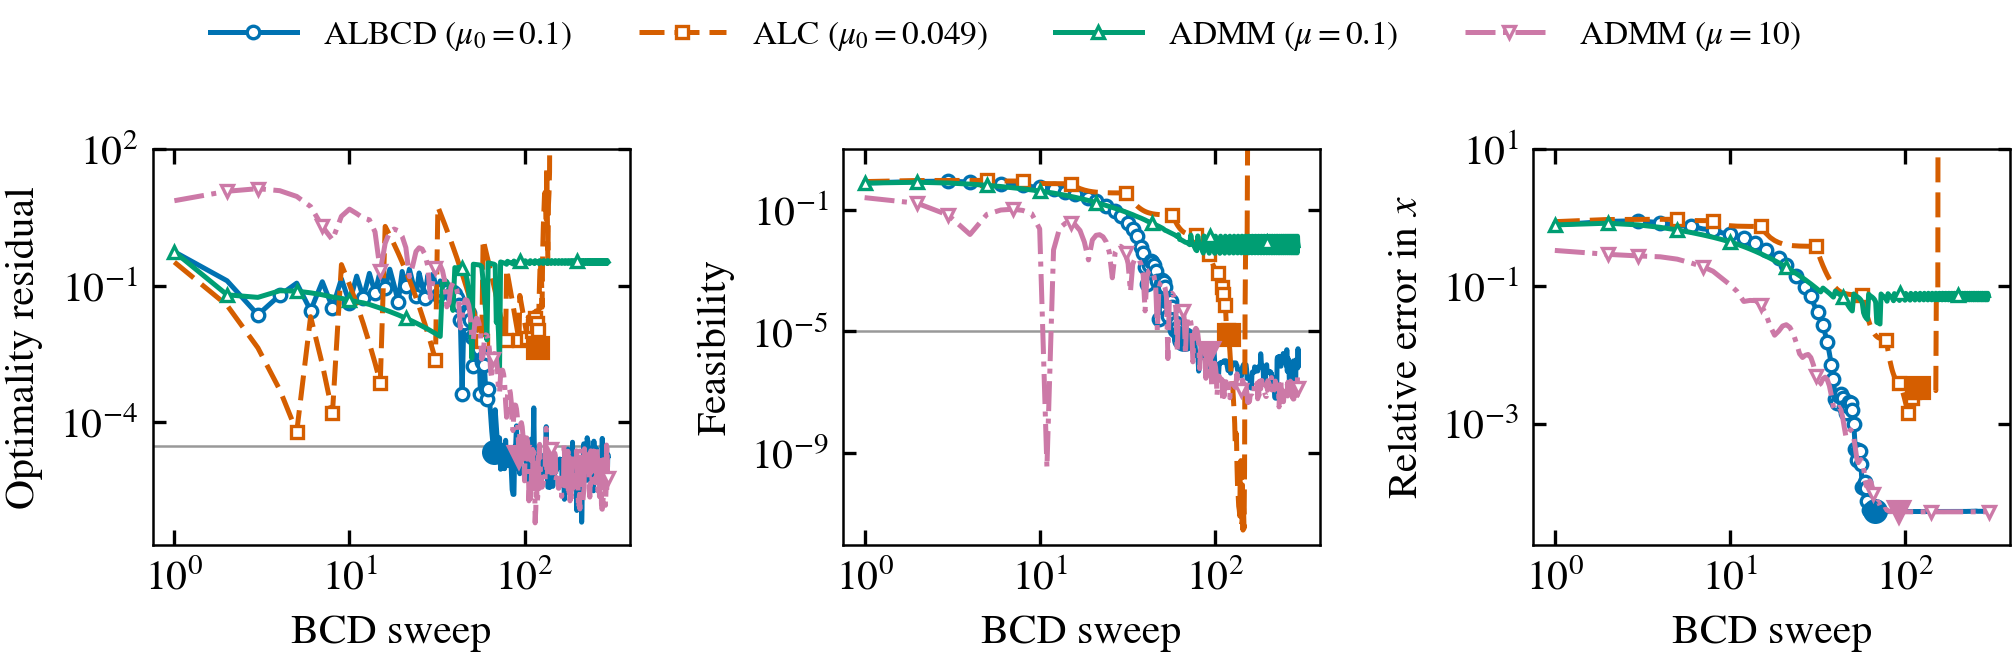
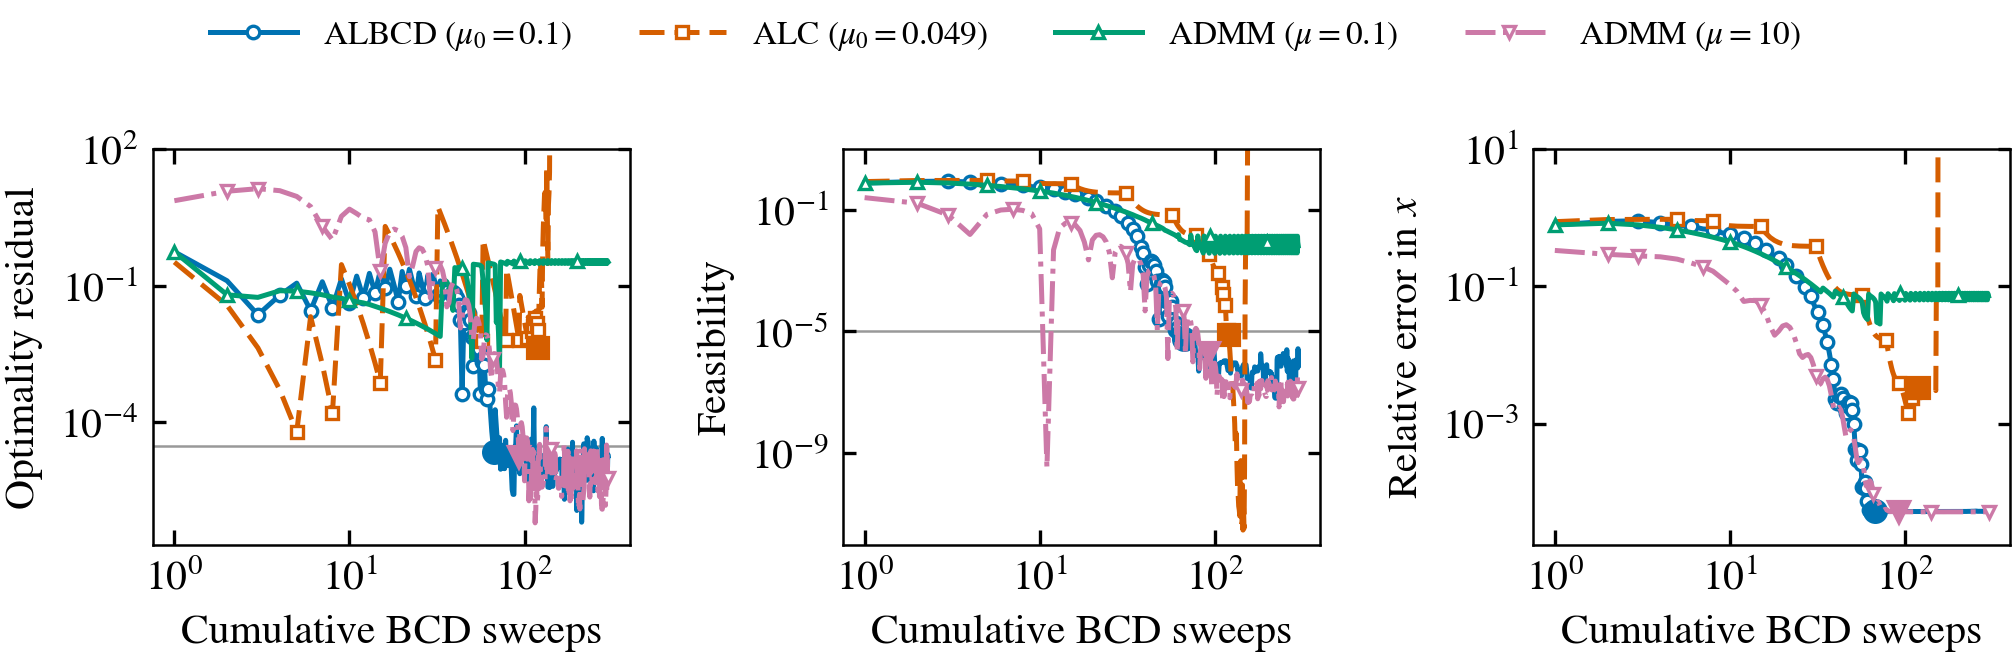
Update axis labels in figures to reflect cumulative BCD sweeps

Changed region(s): [[0.7812, 0.9119, 1.0, 1.0], [0.4375, 0.9119, 0.6562, 1.0], [0.0938, 0.9119, 0.3125, 1.0]]

diff --git a/examples/jax/cessna/fig_mu0_sweep.py b/examples/jax/cessna/fig_mu0_sweep.py
@@ -33,7 +33,7 @@ for a, label in ((opt, "Optimality residual"), (feas, "Feasibility"), (err, "Rel
     a.xaxis.set_minor_locator(NullLocator())
     a.yaxis.set_minor_locator(NullLocator())
     a.set_ylabel(label)
-    a.set_xlabel("Iteration")
+    a.set_xlabel("Cumulative BCD sweeps")
 
 fig.legend(*opt.get_legend_handles_labels(), loc="lower center", bbox_to_anchor=(0.5, 1.0), ncol=6,
            handlelength=2.6, frameon=False)

diff --git a/examples/jax/cessna/fig_prox_sweep.py b/examples/jax/cessna/fig_prox_sweep.py
@@ -40,7 +40,7 @@ for a, label in ((opt, "Optimality residual"), (feas, "Feasibility"), (err, "Rel
     a.xaxis.set_minor_locator(NullLocator())
     a.yaxis.set_minor_locator(NullLocator())
     a.set_ylabel(label)
-    a.set_xlabel("Iteration")
+    a.set_xlabel("Cumulative BCD sweeps")
 
 fig.legend(*opt.get_legend_handles_labels(), loc="lower center", bbox_to_anchor=(0.5, 1.0), ncol=5,
            handlelength=2.6, frameon=False)

diff --git a/examples/jax/cessna/fig_rho_sweep.py b/examples/jax/cessna/fig_rho_sweep.py
@@ -33,7 +33,7 @@ for a, label in ((opt, "Optimality residual"), (feas, "Feasibility"), (err, "Rel
     a.xaxis.set_minor_locator(NullLocator())
     a.yaxis.set_minor_locator(NullLocator())
     a.set_ylabel(label)
-    a.set_xlabel("Iteration")
+    a.set_xlabel("Cumulative BCD sweeps")
 
 fig.legend(*opt.get_legend_handles_labels(), loc="lower center", bbox_to_anchor=(0.5, 1.0), ncol=6,
            handlelength=2.6, frameon=False)

diff --git a/examples/comp/fig_cessna_comparison_tight.py b/examples/comp/fig_cessna_comparison_tight.py
@@ -62,7 +62,7 @@ for a, label, tol, top in ((opt, "Optimality residual", OPT_TOL, 1e2), (feas, "F
     if tol:
         a.axhline(tol, color="0.6", lw=0.6, zorder=0)
     a.set_ylabel(label)
-    a.set_xlabel("BCD sweep")
+    a.set_xlabel("Cumulative BCD sweeps")
 
 fig.legend(*opt.get_legend_handles_labels(), loc="lower center", bbox_to_anchor=(0.5, 1.0), ncol=4,
            handlelength=2.6, frameon=False)

diff --git a/examples/jax/airliner_fleet/fig_convergence.py b/examples/jax/airliner_fleet/fig_convergence.py
@@ -35,7 +35,7 @@ for a, label in ((opt, "Optimality residual"), (feas, "Feasibility"),
     a.xaxis.set_minor_locator(NullLocator())
     a.yaxis.set_minor_locator(NullLocator())
     a.set_ylabel(label)
-    a.set_xlabel("Iteration")
+    a.set_xlabel("Cumulative BCD sweeps")
 
 err.legend(*opt.get_legend_handles_labels(), loc="upper right", handlelength=2.6)
 
